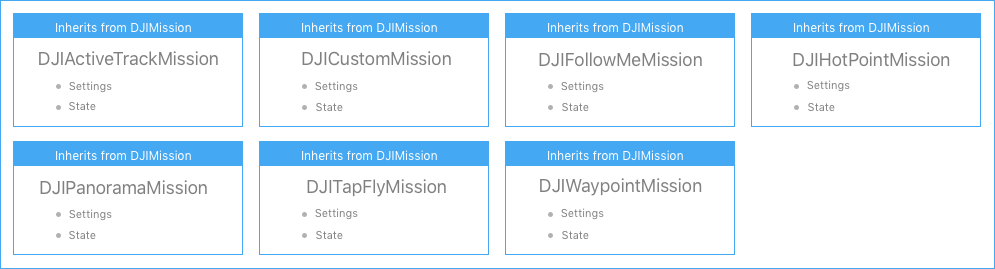
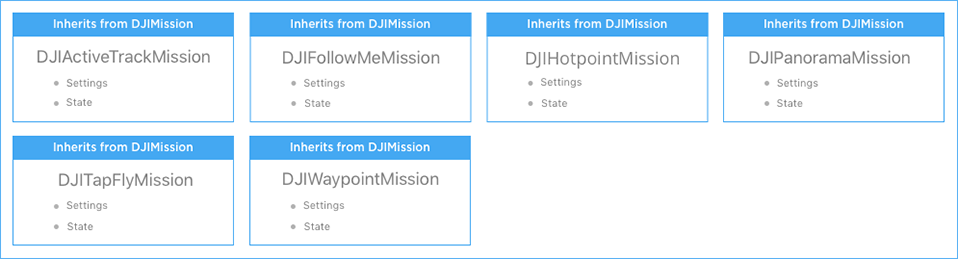
Remove custom mission and update mission diagram.

diff --git a/source/introduction/component-guide-missions.md b/source/introduction/component-guide-missions.md
@@ -1,7 +1,7 @@
 ---
 title: Missions
 date: 2017-06-27
-keywords: [mission control, waypoint mission, hot point mission, follow me mission, activeTrack mission, tapFly mission, panorama mission, custom mission]
+keywords: [mission control, waypoint mission, hot point mission, follow me mission, activeTrack mission, tapFly mission, panorama mission]
 ---
 
 ## Introduction
@@ -22,7 +22,7 @@ During the mission, the mission can be manually adjusted using the remote contro
 
 ![](../images/component-guide/waypoints.gif)
 
-A Waypoint Mission is uploaded to and executed by the aircraft, but is limited by the amount of storage in the flight controller. Accordingly only 99 waypoints can be executed per mission. Custom Mission can be used to easily queue waypoint missions, in applications that require more than 99 points.
+A Waypoint Mission is uploaded to and executed by the aircraft, but is limited by the amount of storage in the flight controller. Accordingly only 99 waypoints can be executed per mission.
 
 ### Hot Point Mission
 
@@ -90,20 +90,5 @@ For Phantom 4 Professional, there are three TapFly modes:
 The Panorama Mission rotates the camera 180 or 360 degrees while taking photos which can then be downloaded to render a panorama. In full circle mode, 8 photos are taken. In half circle mode, 5 photos are taken. Other commands cannot be sent to the camera until the mission is finished. The Panorama Mission does not support the image stitching feature, so the images must be stitched manually. All the images will be stored on the SD card.
 
 The Panorama Mission is only supported on OSMO. 
-
-### Custom Mission
-
-The Custom Mission serializes multiple missions or mission steps. It is an easy way to create complex, rich missions. Each mission step is uploaded to the aircraft at time of execution. Mission steps available are:
-
-* Waypoint Mission
-* Follow Me Mission
-* Hot Point Mission
-* Aircraft Take off
-* Goto Waypoint
-* Go Home
-* Shoot Photo
-* Record Video
-* Change Aircraft Yaw
-* Change Gimbal Attitude
 
 

diff --git a/source/cn/introduction/component-guide-missions.md b/source/cn/introduction/component-guide-missions.md
@@ -1,7 +1,7 @@
 ---
 title: Missions
 date: 2017-06-27
-keywords: [mission control, waypoint mission, hot point mission, follow me mission, activeTrack mission, tapFly mission, panorama mission, custom mission]
+keywords: [mission control, waypoint mission, hot point mission, follow me mission, activeTrack mission, tapFly mission, panorama mission]
 ---
 
 ## Introduction
@@ -22,7 +22,7 @@ During the mission, the mission can be manually adjusted using the remote contro
 
 ![](../../images/component-guide/waypoints.gif)
 
-A Waypoint Mission is uploaded to and executed by the aircraft, but is limited by the amount of storage in the flight controller. Accordingly only 99 waypoints can be executed per mission. Custom Mission can be used to easily queue waypoint missions, in applications that require more than 99 points.
+A Waypoint Mission is uploaded to and executed by the aircraft, but is limited by the amount of storage in the flight controller. Accordingly only 99 waypoints can be executed per mission.
 
 ### Hot Point Mission
 
@@ -91,19 +91,5 @@ The Panorama Mission rotates the camera 180 or 360 degrees while taking photos w
 
 The Panorama Mission is only supported on OSMO. 
 
-### Custom Mission
-
-The Custom Mission serializes multiple missions or mission steps. It is an easy way to create complex, rich missions. Each mission step is uploaded to the aircraft at time of execution. Mission steps available are:
-
-* Waypoint Mission
-* Follow Me Mission
-* Hot Point Mission
-* Aircraft Take off
-* Goto Waypoint
-* Go Home
-* Shoot Photo
-* Record Video
-* Change Aircraft Yaw
-* Change Gimbal Attitude
 
 
